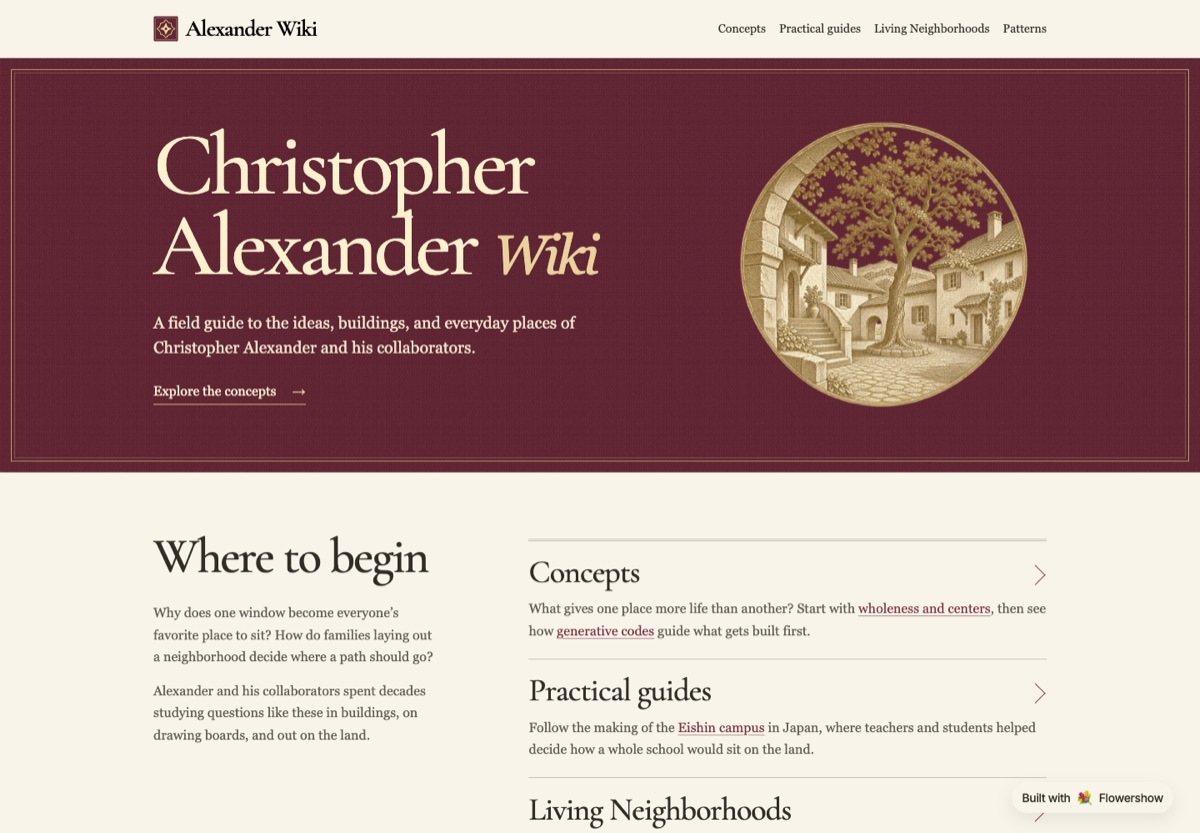
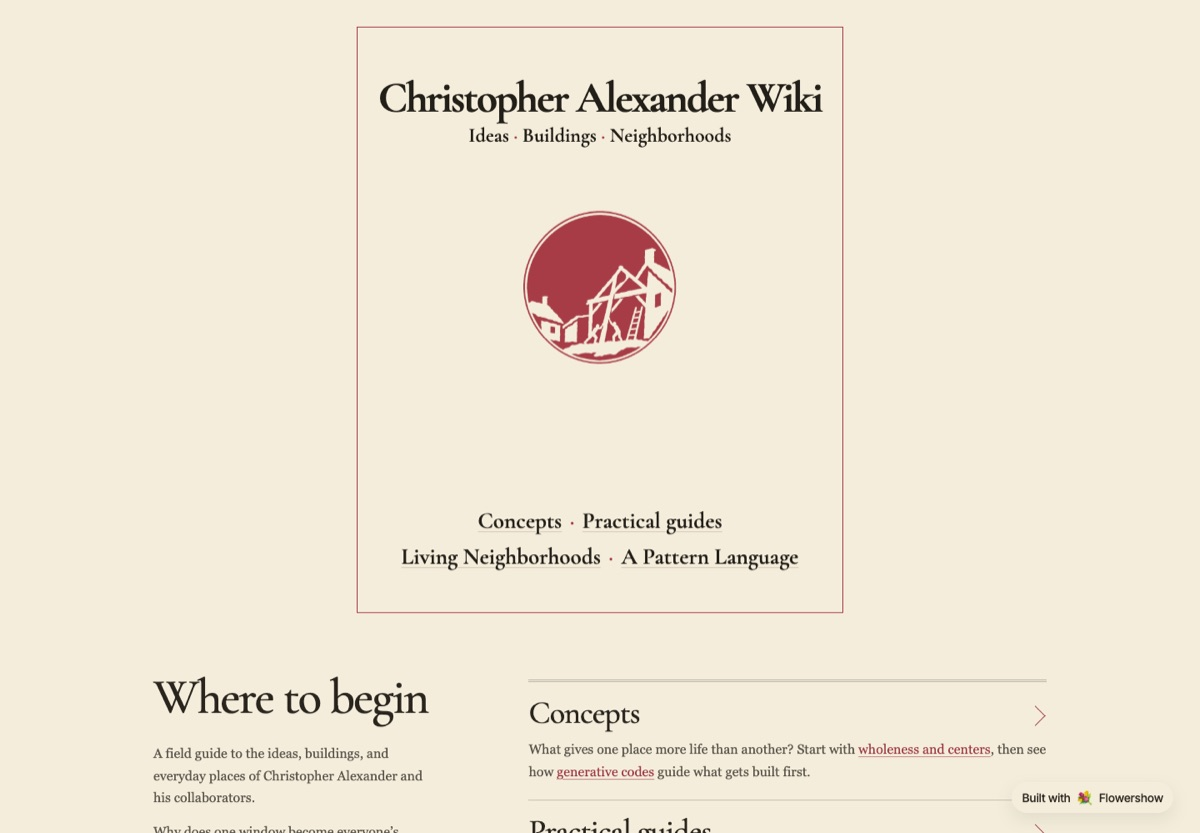
Restyle the landing page after the Oxford dust jacket

diff --git a/custom.css b/custom.css
@@ -9,21 +9,23 @@
 :root {
   --font-heading: "Cormorant Garamond", Georgia, serif;
   --font-body: Georgia, "Times New Roman", serif;
-  --color-l-background: #f8f4e9;
-  --color-l-foreground: #312d26;
-  --color-l-accent: #782b3c;
+  --color-l-background: #f4eddb;
+  --color-l-foreground: #29251e;
+  --color-l-accent: #9b3440;
   --color-d-background: #272422;
   --color-d-foreground: #eee5d3;
   --color-d-accent: #efbd9d;
   --wiki-rule: color-mix(in srgb, var(--color-foreground) 27%, var(--color-background));
   --wiki-muted: color-mix(in srgb, var(--color-foreground) 76%, var(--color-background));
-  --wiki-gold: #ebd19c;
+  --jacket-paper: #f4eddb;
+  --jacket-ink: #221f19;
+  --jacket-red: #a73c46;
   --wiki-width: 76rem;
   --wiki-gutter: clamp(1.25rem, 5vw, 4.8rem);
   --navbar-height: 4.3rem;
 }
 
-::selection { color: #fff4db; background: #743348; }
+::selection { color: #fff7e8; background: #953840; }
 :focus-visible { outline: 2px solid var(--color-accent); outline-offset: 4px; }
 .site-navbar { border-bottom: 1px solid var(--wiki-rule); }
 .site-navbar-inner, .site-footer-inner {
@@ -48,74 +50,53 @@
 }
 .wiki-home .heading-link { display: none; }
 .book-cover {
-  position: relative;
-  isolation: isolate;
-  padding: .95rem;
-  background: #602634 url("/assets/bookcloth.png") repeat;
-  color: #fff2d5;
+  color: var(--jacket-ink);
+  background: var(--jacket-paper);
+  padding: clamp(.85rem, 2.5vw, 2rem) 1rem 0;
 }
 .cover-frame {
-  position: relative;
-  display: grid;
-  grid-template-columns: minmax(0, 1.35fr) minmax(0, .85fr);
-  align-items: center;
-  column-gap: clamp(1.5rem, 4.5vw, 5rem);
-  max-width: calc(var(--wiki-width) - 1.9rem);
+  width: min(100%, 36.5rem);
+  min-height: clamp(33rem, 81svh, 44rem);
   margin-inline: auto;
-  padding: clamp(2.5rem, 4.1vw, 3.8rem) calc(var(--wiki-gutter) - .95rem);
+  border: 1px solid var(--jacket-red);
+  display: grid;
+  grid-template-rows: auto 1fr auto;
+  align-items: center;
+  justify-items: center;
+  text-align: center;
+  padding: clamp(2.5rem, 5.8vh, 4rem) min(3vw, 1.15rem) clamp(1.8rem, 4.8vh, 3.25rem);
 }
-.book-cover::before, .book-cover::after {
-  content: "";
-  position: absolute;
-  pointer-events: none;
-  inset: .8rem;
-  border: 1px solid #b99864;
-}
-.book-cover::after { inset: 1.06rem; border-color: #b9986466; }
 .wiki-home .cover-lettering h1 {
-  color: #fff0ce;
-  font-size: clamp(4.2rem, 7.4vw, 6.65rem);
-  font-weight: 500;
-  line-height: .91;
-  letter-spacing: -.045em;
-}
-.cover-lettering h1 em {
-  color: var(--wiki-gold);
-  font-family: Georgia, serif;
-  font-size: .62em;
-  font-weight: 400;
-  font-style: italic;
-  letter-spacing: -.055em;
+  color: var(--jacket-ink);
+  font: 700 clamp(2.3rem, 6.9vw, 3.25rem)/1.02 var(--font-heading);
+  letter-spacing: -.04em;
+  margin: 0 !important;
+  padding: 0 !important;
+  text-wrap: balance;
 }
 .cover-lettering p {
-  max-width: 34rem;
-  margin: 1.7rem 0 1.6rem;
-  color: #f3e5cd;
-  font-size: clamp(1.02rem, 1.48vw, 1.22rem);
-  line-height: 1.55;
-  text-wrap: pretty;
+  color: var(--jacket-ink);
+  margin: .32rem 0 0;
+  font: 650 clamp(1.12rem, 2.9vw, 1.5rem)/1.2 var(--font-heading);
 }
-.wiki-home .cover-link {
-  display: inline-flex;
-  align-items: center;
-  gap: 1.2rem;
-  padding-bottom: .25rem;
-  border-bottom: 1px solid #d3af76;
-  color: #fff2d5;
-  text-decoration: none;
-  font-size: 1rem;
-  line-height: 1.45;
-}
-.cover-link span { color: var(--wiki-gold); }
-.wiki-home .cover-link:hover { border-color: #fff2d5; color: #fff; }
-.wiki-home .cover-link:focus-visible { outline-color: var(--wiki-gold); }
+.cover-lettering p span, .cover-links span { color: var(--jacket-red); }
 .cover-plate {
-  justify-self: center;
-  width: min(100%, 21.8rem);
+  width: clamp(8.5rem, 16vw, 11.5rem);
   aspect-ratio: 1;
-  background: url("/assets/courtyard.webp") center / contain no-repeat;
-  filter: saturate(.72);
+  align-self: start;
+  margin-block: clamp(2.85rem, 7.5vh, 5rem) 2.25rem;
+  background: url("/assets/builders-roundel.png") center / contain no-repeat;
 }
+.cover-links { color: var(--jacket-ink); }
+.cover-links p {
+  margin: 0;
+  font: 650 clamp(1.3rem, 3.4vw, 1.7rem)/1.28 var(--font-heading);
+}
+.cover-links p + p { margin-top: .3em; }
+.cover-links a { color: inherit; text-decoration: underline; text-decoration-color: #aa8b7966; text-decoration-thickness: 1px; text-underline-offset: .14em; }
+.cover-links a:hover, .cover-links a:focus-visible { color: var(--jacket-red); text-decoration-color: currentColor; }
+.cover-links a:focus-visible { outline-color: var(--jacket-red); }
+.cover-links span { padding-inline: .12em; }
 
 .wiki-contents {
   display: grid;
@@ -194,22 +175,20 @@
 .page-backlinks-title { font: 600 1.4rem/1.15 var(--font-heading); }
 
 @media (max-width: 800px) {
-  .cover-frame { column-gap: 1rem; padding-inline: max(1.3rem, 3.5vw); }
-  .wiki-home .cover-lettering h1 { font-size: clamp(3.4rem, 8.6vw, 4.3rem); }
   .wiki-contents { gap: 2.1rem; }
 }
 @media (max-width: 600px) {
   :root { --navbar-height: 3.6rem; }
   .site-navbar-site-name { font-size: 1.5rem; }
   .site-navbar-site-logo { width: 1.65rem; height: 1.65rem; }
-  .book-cover { padding: .85rem; }
-  .book-cover::before { inset: .55rem; }
-  .book-cover::after { inset: .78rem; }
-  .cover-frame { grid-template-columns: 1fr; gap: 1.2rem; text-align: center; padding: 1.45rem .85rem 1.6rem; }
-  .cover-plate { grid-row: 1; width: clamp(6rem, 24vw, 8.5rem); }
-  .wiki-home .cover-lettering h1 { font-size: clamp(3.65rem, 12.8vw, 4.8rem); }
-  .cover-lettering p { max-width: 26rem; margin: 1rem auto 1.05rem; font-size: 1rem; line-height: 1.48; }
-  .wiki-home .cover-link { font-size: .95rem; }
+  .book-cover { padding: .65rem .65rem 0; }
+  .cover-frame { min-height: clamp(30rem, 74svh, 38rem); padding: 2.5rem .68rem 2rem; }
+  .wiki-home .cover-lettering h1 { max-width: 12ch; font-size: clamp(2.6rem, 12.5vw, 3.8rem); }
+  .cover-lettering p { font-size: clamp(1.07rem, 4.5vw, 1.28rem); }
+  .cover-plate { width: clamp(7rem, 33vw, 9.5rem); margin-block: clamp(2rem, 5.5vh, 3rem) 1.5rem; }
+  .cover-links p { font-size: clamp(1.1rem, 5.35vw, 1.5rem); }
+  .cover-links p:last-child { display: flex; flex-direction: column; align-items: center; gap: .15em; }
+  .cover-links p:last-child span { display: none; }
   .wiki-contents { grid-template-columns: minmax(0, 1fr); gap: 1.65rem; padding-top: 2.4rem; }
   .wiki-home .contents-intro h2 { font-size: 2.7rem; }
   .contents-intro p, .contents-entry p { font-size: 1rem; line-height: 1.6; }

diff --git a/index.md b/index.md
@@ -2,22 +2,27 @@
 title: Christopher Alexander Wiki
 description: Explore Christopher Alexander through his ideas, the places he built with others, and practices you can try where you live.
 layout: plain
+showNavbar: false
 ---
 
 <div class="wiki-home">
 <section class="book-cover" aria-labelledby="book-title">
 <div class="cover-frame">
 <div class="cover-lettering">
-<h1 id="book-title">Christopher<br />Alexander <em>Wiki</em></h1>
-<p>A field guide to the ideas, buildings, and everyday places of Christopher Alexander and his collaborators.</p>
-<a class="cover-link" href="/concepts">Explore the concepts <span aria-hidden="true">→</span></a>
+<h1 id="book-title">Christopher Alexander Wiki</h1>
+<p>Ideas <span aria-hidden="true">·</span> Buildings <span aria-hidden="true">·</span> Neighborhoods</p>
 </div>
-<div class="cover-plate" role="img" aria-label="An engraved courtyard with houses gathered around a tree."></div>
+<div class="cover-plate" role="img" aria-label="A woodcut of two builders raising a timber frame."></div>
+<nav class="cover-links" aria-label="Explore the wiki">
+<p><a href="/concepts">Concepts</a> <span aria-hidden="true">·</span> <a href="/practice">Practical guides</a></p>
+<p><a href="/living-neighborhoods">Living Neighborhoods</a> <span aria-hidden="true">·</span> <a href="/patterns">A Pattern Language</a></p>
+</nav>
 </div>
 </section>
 <section class="wiki-contents" aria-labelledby="contents-title">
 <div class="contents-intro">
 <h2 id="contents-title">Where to begin</h2>
+<p>A field guide to the ideas, buildings, and everyday places of Christopher Alexander and his collaborators.</p>
 <p>Why does one window become everyone’s favorite place to sit? How do families laying out a neighborhood decide where a path should go?</p>
 <p>Alexander and his collaborators spent decades studying questions like these in buildings, on drawing boards, and out on the land.</p>
 </div>

diff --git a/changelog/2026-11-25-flowershow-preview.md b/changelog/2026-11-25-flowershow-preview.md
@@ -6,4 +6,4 @@ promote: false
 
 The [Flowershow preview](https://alexander-wiki-preview-rufuspollock.flowershow.me) pairs a [reading guide to Alexander’s concepts](https://alexander-wiki-preview-rufuspollock.flowershow.me/concepts) with [a field exercise based on the layout of Eishin campus](https://alexander-wiki-preview-rufuspollock.flowershow.me/practice/eishin-campus).
 
-![Alexander Wiki preview with a burgundy cover and an illustrated courtyard](images/2026-11-25-flowershow-preview.jpg)
+![Alexander Wiki preview with a paper jacket and red builders’ roundel](images/2026-11-25-flowershow-preview.jpg)
